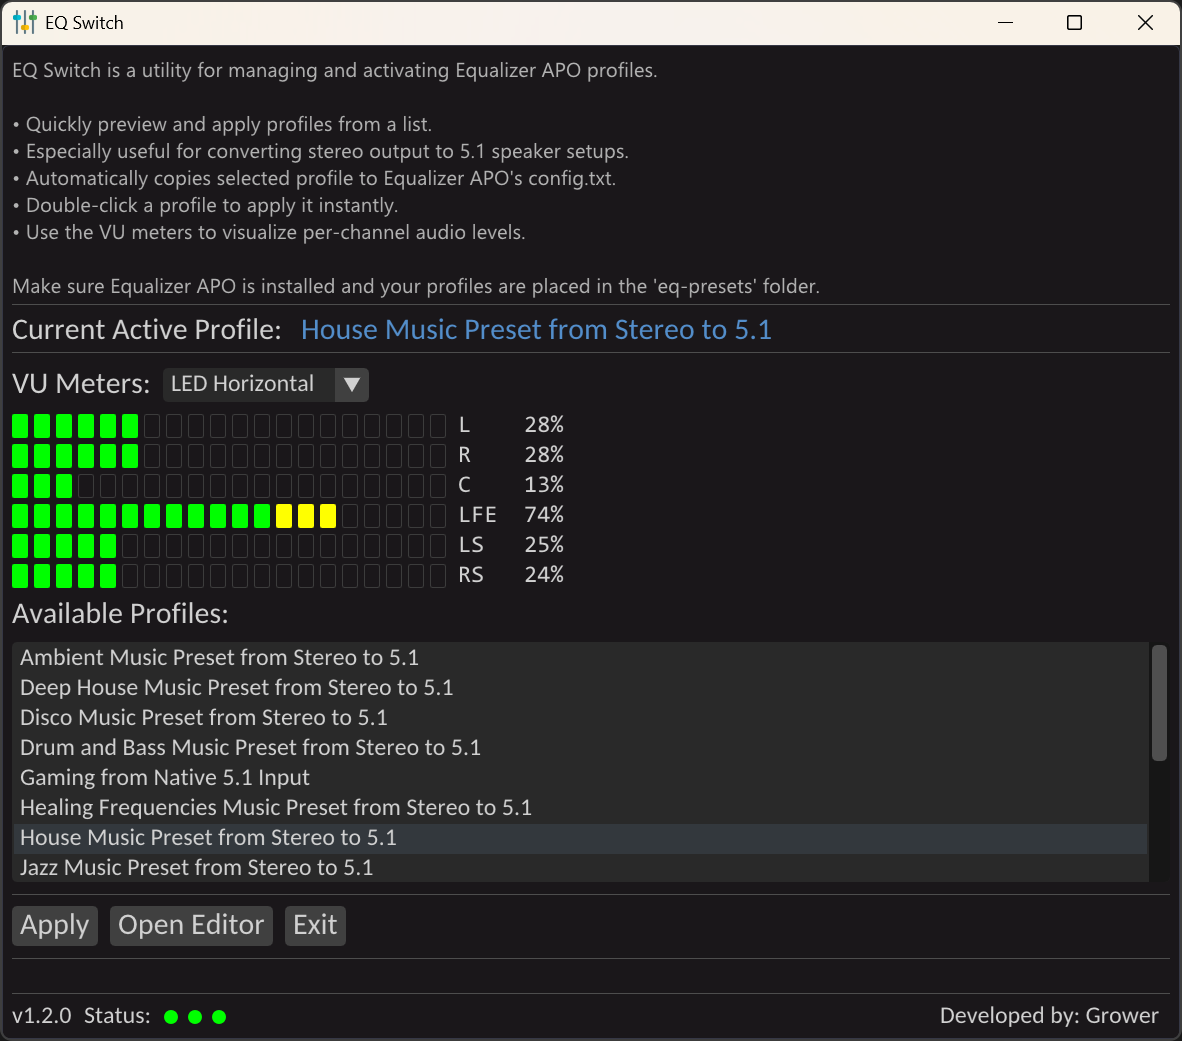
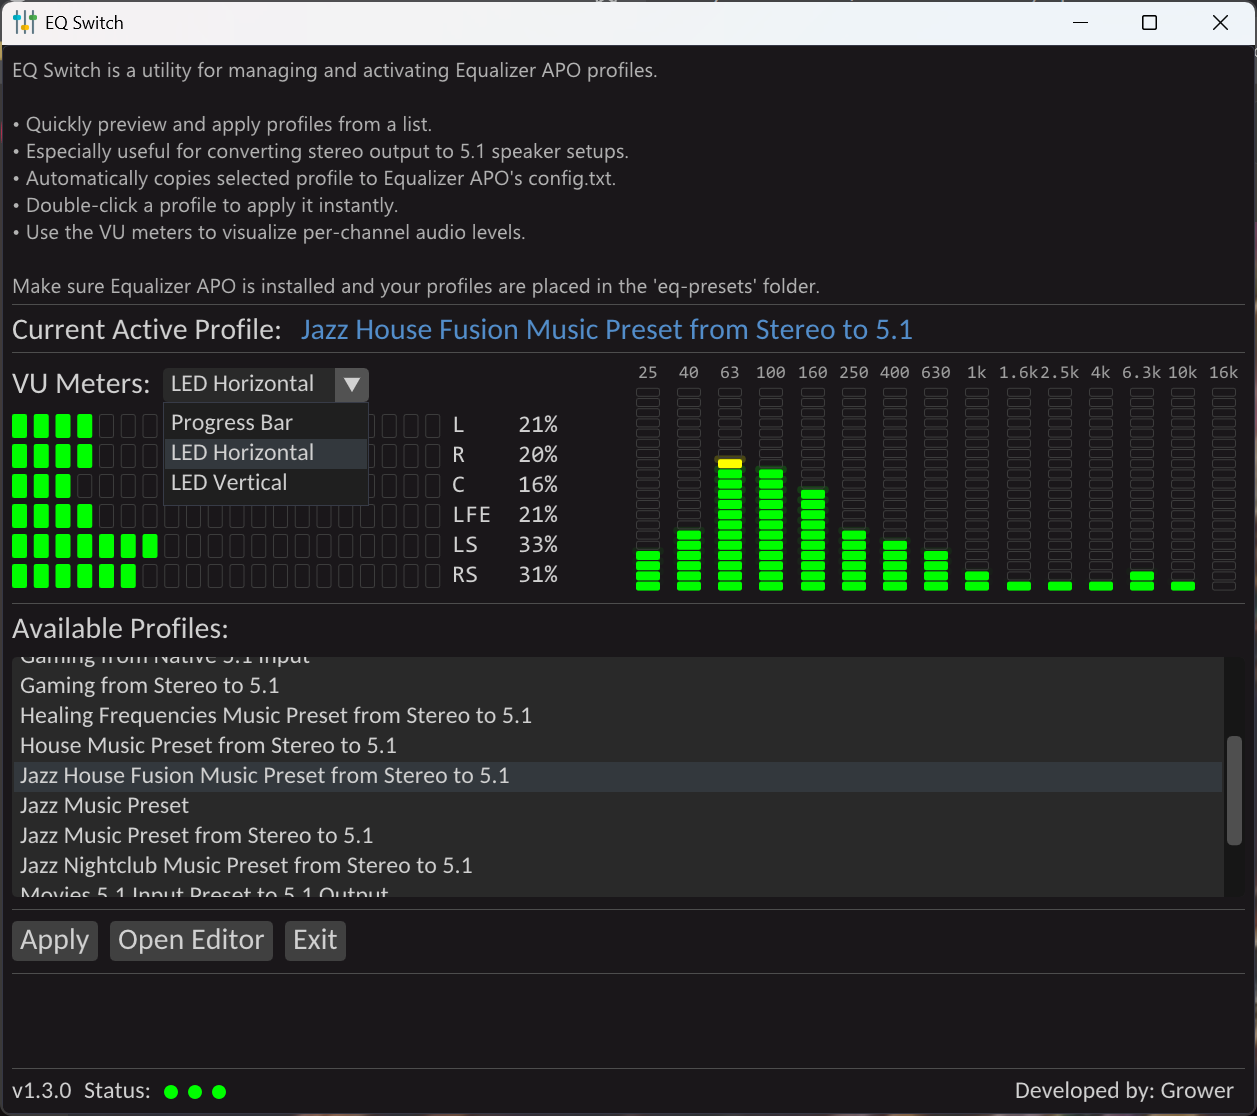
fix: Updated to new release v1.3.0

diff --git a/README.md b/README.md
@@ -1,6 +1,7 @@
 # 🎛 EQ Switch
 
-**EQ Switch** is a minimalist ImGui/DirectX11-based C++ desktop application that lets you easily switch between different [Equalizer APO](https://sourceforge.net/projects/equalizerapo/) profiles. It's designed for fast access to audio configurations, especially when working with multiple speaker setups like stereo, 5.1, or custom room correction profiles.
+**EQ Switch** is a desktop utility for managing [Equalizer APO](https://sourceforge.net/projects/equalizerapo/) profiles with real-time LED-style audio visualization.  
+Now featuring a **15-band Frequency VU Meter** powered by **KISS FFT** for live spectrum analysis.
 
 ![screenshot](screenshot.png "EQ Switch")
 
@@ -8,57 +9,30 @@
 
 ## ✨ Features
 
-- 🎚 **Real-Time Audio VU Meters**  
-  Visualize levels for up to 6 channels using Progress Bars, LED-style Vertical or Horizontal meters.
+- **🎚 Profile Switching**
+  - Instantly swap between [Equalizer APO](https://sourceforge.net/projects/equalizerapo/) profiles.
+  - Profiles stored in a dedicated directory for easy access.
 
-- 🖱 **Fast Profile Switching**  
-  Easily switch Equalizer APO profiles with one click or double-click.
+- **📊 Real-Time Audio Visualization**
+  - **Stereo VU Meters**  
+    - LED-style meters for left/right channels.
+    - Smooth decay for natural responsiveness.
+  - **Frequency VU Meter**  
+    - 15 bands spanning 25 Hz → 20 kHz.
+    - Log/compressive scaling — low volumes are more visible while peaks saturate at top.
+    - Color zones: **Green → Yellow → Red**.
+    - DPI-aware rendering for all monitor scales.
 
-- 🎨 **Dark Modern Theme**  
-  Includes a custom dark UI theme inspired by VS Code Dark Modern.
-
-- 💾 **Prebuilt Profiles Included**  
-  Comes with stereo-to-5.1 transformation profiles ready to use.
-
-- 🧠 **Persistent Selection**  
-  Keeps track of your current profile and scrolls to it on startup.
-
-- 🔧 **Modular C++ Codebase**  
-  Easily extensible—components like theming, fonts, meters, and audio capture are isolated in clean modules.
+- **🖥 DPI Awareness**
+  - GUI scales with `main_scale` for crisp rendering on any display.
 
 ---
 
 ## 📦 Prebuilt Profiles
 
-The project comes with a set of prebuilt Equalizer APO profiles, **primarily used for transforming stereo audio into 5.1 surround**. These profiles are located in the `eq-presets/` directory and can be customized or replaced as needed.
+The project comes with a set of prebuilt [Equalizer APO](https://sourceforge.net/projects/equalizerapo/) profiles, **primarily used for transforming stereo audio into 5.1 surround**. These profiles are located in the `eq-presets/` directory and can be customized or replaced as needed.
 
-## 📦 Folder Structure
 
-```
-EQSwitch/
-├── imgui/ # ImGui + backends (DX11/Win32)
-├── src/
-│ ├── main.cpp # WinMain entry and render loop
-│ ├── gui/
-│ │ └── EQSwitchWindow.{cpp,h}
-│ ├── audio/
-│ │ └── AudioCapture.{cpp,h}
-│ ├── config/
-│ │ └── ProfileManager.{cpp,h}
-│ ├── utils/
-│ │ ├── VUBuffer.{cpp,h}
-│ │ └── Fonts.{cpp,h}
-│ │ └── AppLauncher.{cpp,h}
-│ │ └── ChannelLabels.{cpp,h}
-│ │ └── SystemUtils.{cpp,h}
-├── eq-presets/ # Your custom config .txt profiles
-├── launch_editor.bat # Optional editor launcher
-├── resources/ # Icons / resources
-├── tasks.json # VSCode build tasks
-├── c_cpp_properties.json
-└── README.md
-```
----
 ## Controls
 
 - **Double-click** a profile in the list to apply
@@ -73,6 +47,7 @@ EQSwitch/
 - Windows (x64)
 - VSCode or `cl.exe` via Developer Command Prompt
 - [ImGui](https://github.com/ocornut/imgui) (included locally)
+- [KissFFT](https://github.com/mborgerding/kissfft) (included locally)
 - [Equalizer APO](https://sourceforge.net/projects/equalizerapo/) installed
 
 ### ⚙ VSCode Build with `tasks.json`
@@ -122,17 +97,29 @@ Each profile file should include a line:
 ## 📃 License
 
 MIT — feel free to use, modify, and redistribute.
-Credit to [ImGui](https://github.com/ocornut/imgui) and [Equalizer APO](https://sourceforge.net/projects/equalizerapo/).
+Credit to [ImGui](https://github.com/ocornut/imgui), [Equalizer APO](https://sourceforge.net/projects/equalizerapo/) and [KissFFT](https://github.com/mborgerding/kissfft).
 
 ## 🙏 Credits
 
 - Developed by Matej Arh
-- Special thanks to the [Equalizer APO](https://sourceforge.net/projects/equalizerapo/) community and [ImGui](https://github.com/ocornut/imgui) by Omar Cornut.
+- Special thanks to the [Equalizer APO](https://sourceforge.net/projects/equalizerapo/) community, [ImGui](https://github.com/ocornut/imgui) by Omar Cornut and [KissFFT](https://github.com/mborgerding/kissfft).
 - Fonts: Carlito (from Windows font directory)
 
-### 📋 Changelog
+## 📋 Changelog
 
-#### v1.1.0 – Enhanced GUI and Theming
+### v1.3.0 - Frequency VU Meter
+- 🎛 **Added Frequency VU Meter** — 15 bands covering 25 Hz → 20 kHz.
+- 📈 **Log/Compressive Scaling** — boosts low-level details while keeping peaks natural.
+- ↔ **Layout Enhancements** — right-aligned & SameLine meter placement.
+- 🖥 **DPI Scaling Improvements** — crisp visuals on all display scales.
+
+### v1.2.0
+- 🖥 Cleaner and more responsive UI with ImGui
+- 📁 Corrected profile path syntax for better compatibility
+- 💡 Clear status indicators with tooltips for quick diagnostics
+- 🛠 Refactored codebase for better maintainability and future updates
+
+### v1.1.0 – Enhanced GUI and Theming
 - 🆕 Added support for switching between VU meter modes: **Progress Bar**, **LED Horizontal**, and **LED Vertical**
 - 🎨 Refined **Dark Modern** ImGui theme (VS Code–inspired)
 - 🧱 Introduced modular **VuMeters** class
@@ -140,7 +127,7 @@ Credit to [ImGui](https://github.com/ocornut/imgui) and [Equalizer APO](https://
 - ✅ Combo box now aligns properly and uses small font
 - 🛠 Fixed profile selection issue and added auto-scroll behavior
 
-#### v1.0.0 – Initial Release
+### v1.0.0 – Initial Release
 - 🎚 VU meters with Progress Bar visualization
 - 🔁 Equalizer APO profile switching with double-click
 - 🖼 Fullscreen DX11/Win32 GUI with ImGui
